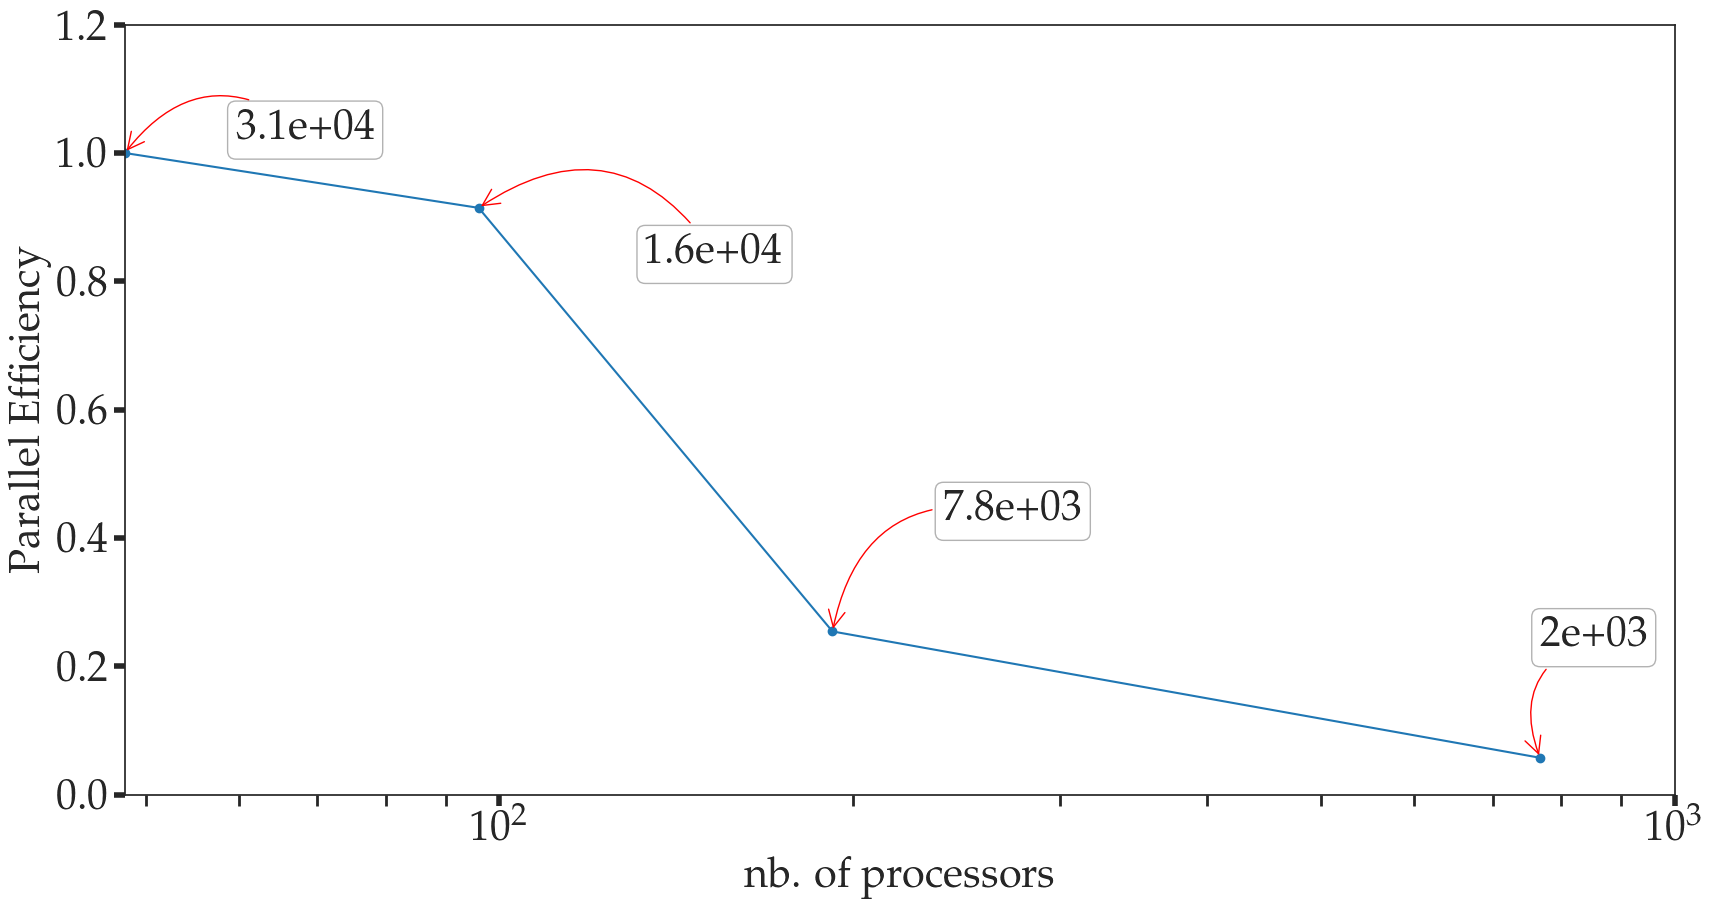
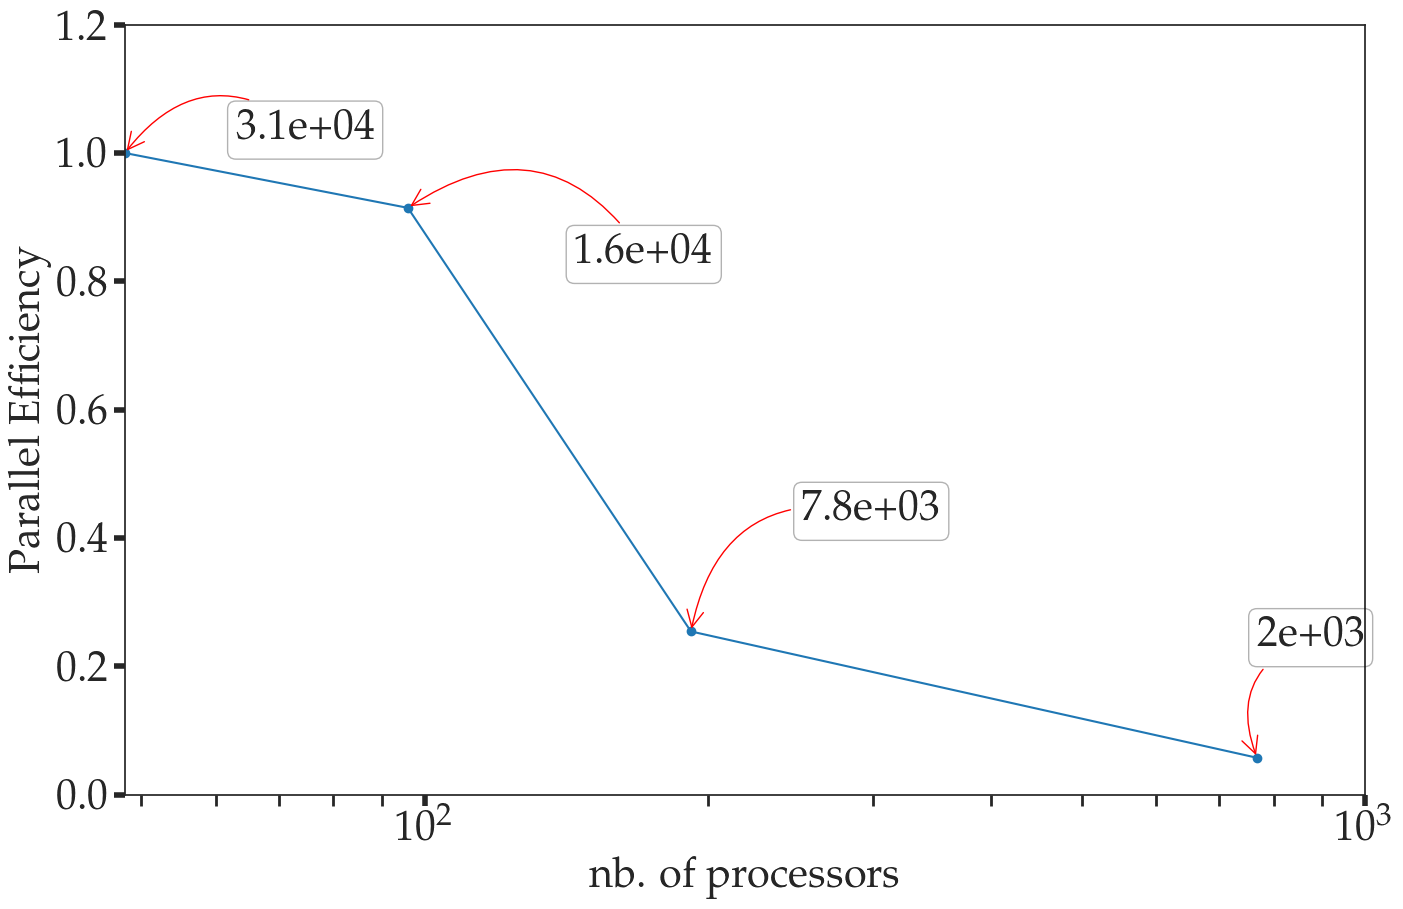
chang fig ratio

diff --git a/userScalability/occigen.py b/userScalability/occigen.py
@@ -26,9 +26,9 @@ def read_cases():
     prefix='1b_mirrorMerge_mapped_NearestFace'+'_'
     n_procs=np.array([48, 96, 192, 768])
 
-    fig0, ax0 = plt.subplots(figsize=(20,10))
-    fig1, ax1 = plt.subplots(figsize=(20,10)) 
-    fig2, ax2 = plt.subplots(figsize=(20,10))
+    fig0, ax0 = plt.subplots(figsize=(16,10))
+    fig1, ax1 = plt.subplots(figsize=(16,10)) 
+    fig2, ax2 = plt.subplots(figsize=(16,10))
     
     Sp=np.zeros(len(n_procs))
     E =np.zeros(len(n_procs))
